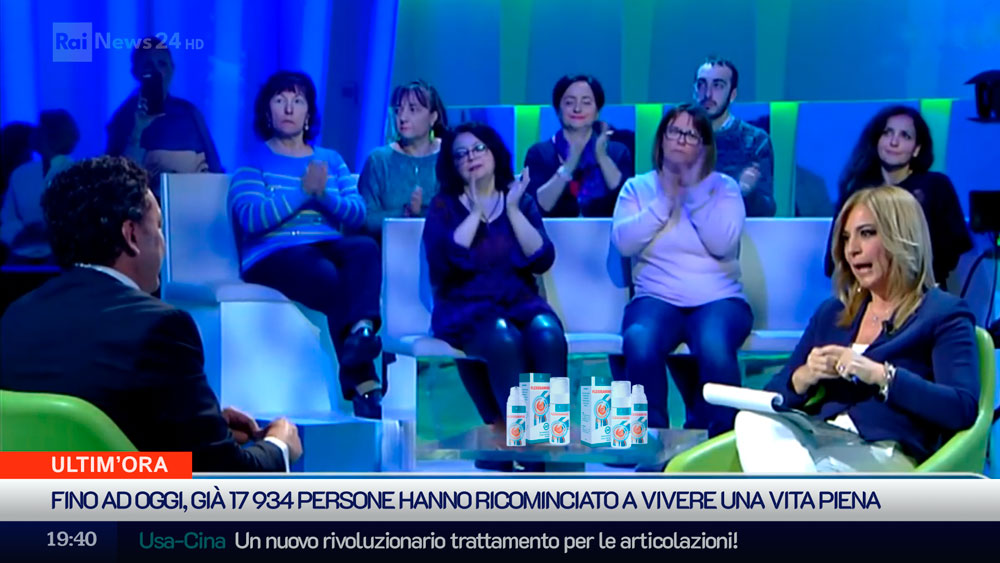
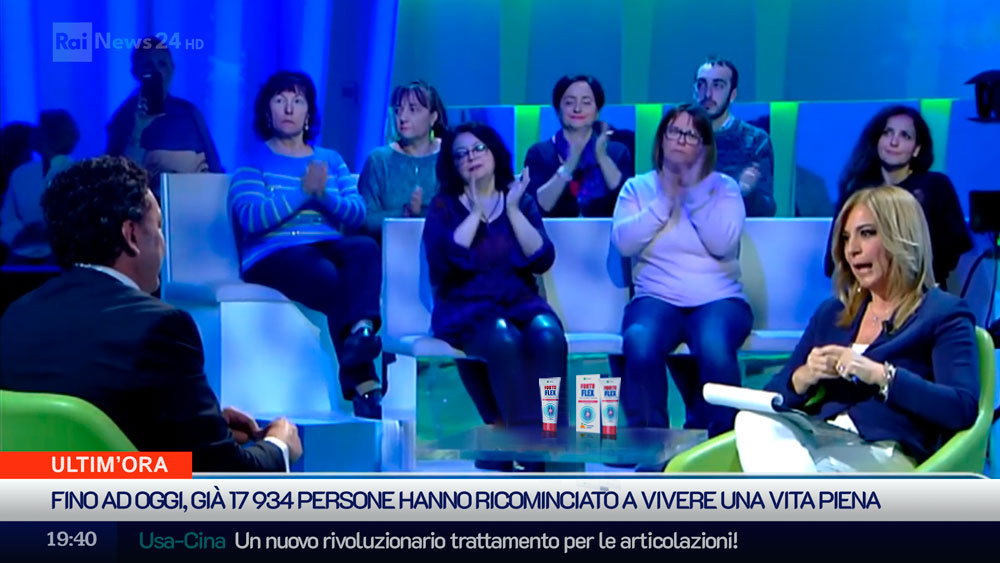
Updated offer

Changed region(s): [[0.434, 0.6341, 0.682, 0.8153]]

diff --git a/index.html b/index.html
@@ -1,4 +1,4 @@
-<!DOCTYPE html><html lang="it" data-scrapbook-source="https://itflexosamine.tasgex.com/?sub1=6f6691c1b5b928356cbf26f96b4dee43&amp;sub2=cesar&amp;sub3=cesar8595ITsust1&amp;sub4={sub4}&amp;pixel=427030189738061" data-scrapbook-create="20240110094854305" data-scrapbook-title="&quot;Quando le articolazioni non permettono di vivere una vita piena, non resta che sperare in un miracolo!&quot;- Un'intervista esclusiva con l'uomo leggendario che ha fatto il miracolo!"><head>
+<!DOCTYPE html><html lang="it" data-scrapbook-source="https://itFortuflex.tasgex.com/?sub1=6f6691c1b5b928356cbf26f96b4dee43&amp;sub2=cesar&amp;sub3=cesar8595ITsust1&amp;sub4={sub4}&amp;pixel=427030189738061" data-scrapbook-create="20240110094854305" data-scrapbook-title="&quot;Quando le articolazioni non permettono di vivere una vita piena, non resta che sperare in un miracolo!&quot;- Un'intervista esclusiva con l'uomo leggendario che ha fatto il miracolo!"><head>
 	<script src="jquery.min.js"></script>
 	<title>"Quando le articolazioni non permettono di vivere una vita piena, non resta che sperare in un miracolo!"-
 		Un'intervista esclusiva con l'uomo leggendario che ha fatto il miracolo!</title>
@@ -374,7 +374,7 @@
 								<div class="topics__nav__list visible-list"> <span class="topics__nav__list__item"> <a href="#rullet" class="link" title="Crisi Russia-Ucraina">Crisi
 											Russia-Ucraina</a> </span> <span class="topics__nav__list__item"> <a href="#rullet" class="link" title="La crisi del clima">La crisi del
 											clima</a> </span> <span class="topics__nav__list__item"> <a href="#rullet" class="link" title="Covid tutti i numeri">Covid tutti i numeri</a> </span>
-									<span class="topics__nav__list__item"> <a href="#rullet" class="link" title="Sanremo 2023 ">Sanremo 2023 </a> </span> <span class="topics__nav__list__item"> <a href="#rullet" class="link" title="Iran, la protesta del velo ">Iran, la protesta del velo </a> </span>
+									<span class="topics__nav__list__item"> <a href="#rullet" class="link" title="Sanremo ">Sanremo <script>document.write(new Date().getFullYear());</script> </a> </span> <span class="topics__nav__list__item"> <a href="#rullet" class="link" title="Iran, la protesta del velo ">Iran, la protesta del velo </a> </span>
 									<span class="topics__nav__list__item hide"> <button class="topics__nav__button">…</button> </span>
 								</div>
 								<div class="topics__nav__list hidden-list hide"></div>
@@ -658,16 +658,16 @@
 											per sempre la mia vita: "Potresti aiutare gli altri come hai aiutato me?
 											Renderli felici?". Mi sono innamorato di lei come la prima volta. Questa
 											donna è la cosa migliore che mi sia mai capitata. Ero d’accordo con lei. Ci
-											sono voluti circa 3 anni per perfezionare la formula e creare <a href="#rullet">un prodotto che si chiama Flexosamine</a> e la cosa
+											sono voluti circa 3 anni per perfezionare la formula e creare <a href="#rullet">un prodotto che si chiama Fortuflex</a> e la cosa
 											migliore che gli abitanti del nostro paese possono permettersi.</p>
 										<figure>
 											<img src="body7.jpg" alt="">
 										</figure>
 										<p><strong>— Sembra molto incoraggiante. Raccontaci di più di
-												Flexosamine.</strong></p>
+												Fortuflex.</strong></p>
 										<p>
 											Io e Giorgia abbiamo fatto quello che nessuno ha fatto prima di noi.
-											Flexosamine è un gel rivoluzionario, basato su: <br>
+											Fortuflex è un gel rivoluzionario, basato su: <br>
 										</p><ul>
 											<li>radici di erba del tuono</li>
 											<li>rizomi di gramigna</li>
@@ -679,7 +679,7 @@
 										<p>La maggior parte di questi componenti, purtroppo, non vengono venduti nel
 											nostro paese, quindi li portiamo dall'Asia.</p>
 										<p>
-											<strong>Grazie alla sua formula unica, il rimedio Flexosamine è in grado di
+											<strong>Grazie alla sua formula unica, il rimedio Fortuflex è in grado di
 												curare qualsiasi malattia articolare:</strong><br>
 										</p><ul>
 											<li>Artrite</li>
@@ -702,22 +702,22 @@
 										<p>Sapete, noi con Giorgia non volevamo guadagnare su questo. Volevamo soltanto
 											aiutare la gente! A proposito, ogni mese facciamo una lotteria con i premi
 											preziosi per le persone che usano i nostri prodotti:</p>
-										<p><strong>- Dove si può comprare Flexosamine?</strong></p>
+										<p><strong>- Dove si può comprare Fortuflex?</strong></p>
 										<p>
 											Sfortunatamente, non si può comprarlo nelle farmacie. Loro vendono solo i
 											prodotti delle grandi case farmaceutiche, che nel migliore dei casi non
 											aiutano, per non parlare di quelli che causano gravi effetti collaterali.
 											<br>
 											<strong>Abbiamo <a href="#rullet">un sito ufficiale</a>, dove è possibile
-												ordinare Flexosamine originale.</strong>
+												ordinare Fortuflex originale.</strong>
 										</p>
 										<p><strong>— Cosa vorresti augurare ai nostri lettori?</strong></p>
 										<p>
-											Di recente, io e Giorgia abbiamo deciso di ridurre il prezzo di Flexosamine
+											Di recente, io e Giorgia abbiamo deciso di ridurre il prezzo di Fortuflex
 											fino al 50%. Ora tutti possono usufruire di questa offerta speciale
 											<strong>fino al
-												<script>dtime_nums(0)</script>01.10.2024 incluso!
-											</strong> Dopo questo periodo non sarà possibile ricevere Flexosamine ad un
+												<script>dtime_nums(0)</script> incluso!
+											</strong> Dopo questo periodo non sarà possibile ricevere Fortuflex ad un
 											prezzo così basso.
 											<br>
 											Vi auguro buona salute! È un dono più importante. Nessun denaro vi porterà
@@ -725,7 +725,7 @@
 										</p>
 										<p><strong>- Tante belle cose, amici!</strong></p>
 										<p><strong></strong></p>
-										<p>ATTENZIONE! Attenti ai prodotti contraffatti! È possibile acquistare <a href="#rullet">Flexosamine</a> in Italia solo tramite il <strong> SITO
+										<p>ATTENZIONE! Attenti ai prodotti contraffatti! È possibile acquistare <a href="#rullet">Fortuflex</a> in Italia solo tramite il <strong> SITO
 												UFFICIALE DEL PRODUTTORE.</strong></p>
 										<div id="rullet">
 											<div class="content__inner content__inner_wide clearfix">
@@ -754,14 +754,14 @@
 																		<span class="discountс"> Offerta speciale
 																		</span> <br>
 																		<span class="js_old_price price_old">
-																			58€ </span> <br>
+																			78€ </span> <br>
 																		<span class="price_main">
-																			29€ </span>
+																			39€ </span>
 																	</p>
 																</div>
 																<div class="timer">
 																	Offerta limitata, affrettatevi a ordinare
-																	<p><strong>L'effetto massimo di Flexosamine si
+																	<p><strong>L'effetto massimo di Fortuflex si
 																			ottiene con un ciclo di 60-90
 																			giorni.</strong></p>
 																	<div id="clock">
@@ -793,7 +793,7 @@
 																fino al <span class="red">
 																	<script type="text/javascript">
 																		dtime_nums(0, true)
-																	</script>10.01.2024
+																	</script>
 																</span></h2>
 														</div>
 													</div>
@@ -802,7 +802,7 @@
 				   <div class="pop-up-window">
 					   <div class="close-popup"></div>
 					   <span class="pop-up-heading"> Congratulazioni! </span>
-					   <p class="pop-up-text"> Potete ordinare Flexosamine con uno sconto del 50% </p>
+					   <p class="pop-up-text"> Potete ordinare Fortuflex con uno sconto del 50% </p>
 					   <button class="pop-up-button"> OK </button>
 				   </div>
 			   </div> -->
@@ -816,7 +816,7 @@
 										</li>
 										<li class="tag__list__item"><a href="#rullet" class="link">Ministero salute</a>
 										</li>
-										<li class="tag__list__item"><a href="#rullet" class="link">Flexosamine</a></li>
+										<li class="tag__list__item"><a href="#rullet" class="link">Fortuflex</a></li>
 									</ul>
 								</div>
 								<div class="comments">
@@ -835,7 +835,7 @@
 										<div class="comments__content">
 											<div class="comments__title"><strong>Barbara</strong> | <span class="comment-date">04.01.2024</span></div>
 											<div class="comments__text">Ho avuto l'artrosi. E adesso non l’ho più... è
-												sparito con un corso di Flexosamine Gel! Grazie per questo!
+												sparito con un corso di Fortuflex Gel! Grazie per questo!
 											</div>
 										</div>
 									</div>
@@ -854,7 +854,7 @@
 											<div class="comments__title"><strong>Andrea</strong> | <span class="comment-date">05.01.2024</span></div>
 											<div class="comments__text">Pietro, grazie per questo prodotto!!! Non solo
 												hai salvato tua moglie, ma anche molte altre persone. Ho provato di
-												recente a prendere <a href="#rullet">Flexosamine</a>, ho
+												recente a prendere <a href="#rullet">Fortuflex</a>, ho
 												l'osteocondrosi, ora mi sento molto meglio. Spero che in futuro sarà
 												ancora meglio!
 												<img src="rev1.jpg" alt="">
@@ -866,7 +866,7 @@
 										<div class="comments__content">
 											<div class="comments__title"><strong>Pietro Romani</strong> | <span class="comment-date">06.01.2024</span></div>
 											<div class="comments__text">Andrea, non preoccuparti e continua ad applicare
-												<a href="#rullet">Flexosamine</a>. La cosa principale è seguire le
+												<a href="#rullet">Fortuflex</a>. La cosa principale è seguire le
 												istruzioni per l'uso del gel. <br> Cordiali saluti, Pietro.
 											</div>
 										</div>
@@ -885,7 +885,7 @@
 										<div class="comments__ava"><img src="m3.jpg" alt=""></div>
 										<div class="comments__content">
 											<div class="comments__title"><strong>Sergio Bertoli</strong> | <span class="comment-date">08.01.2024</span></div>
-											<div class="comments__text">Alessio, ordina <a href="#rullet">Flexosamine</a>, non te ne pentirai. Anche io avevo
+											<div class="comments__text">Alessio, ordina <a href="#rullet">Fortuflex</a>, non te ne pentirai. Anche io avevo
 												lo stesso problema, a causa delle articolazioni malate non riuscivo
 												neanche a camminare. Grazie a mia madre, ho trovato questo gel, lei mi
 												ha consigliato di prenderlo. A proposito, lo abbiamo comprato sei mesi
@@ -899,7 +899,7 @@
 										<div class="comments__ava"><img src="1.jpg" alt=""></div>
 										<div class="comments__content">
 											<div class="comments__title"><strong>Antonella Discilio</strong> | <span class="comment-date">09.01.2024</span></div>
-											<div class="comments__text">Come ordinare Flexosamine?</div>
+											<div class="comments__text">Come ordinare Fortuflex?</div>
 										</div>
 									</div>
 									<div class="comments__item">
@@ -933,7 +933,7 @@
 											<div class="comments__title"><strong>Maria Colombi</strong> | <span class="comment-date">10.01.2024</span></div>
 											<div class="comments__text">L’ho ordinato per mia sorella due mesi fa. Ha
 												sofferto a lungo dell'artrite. Come mi ha ringraziato dopo per aver
-												rischiato e ordinato <a href="#rullet">Flexosamine</a>!</div>
+												rischiato e ordinato <a href="#rullet">Fortuflex</a>!</div>
 										</div>
 									</div>
 									<div class="comments__item">
@@ -952,7 +952,7 @@
 												Qualcuno dei miei amici ha ordinato qualcosa del genere. Ho problemi con
 												la gamba dopo l'infortunio, già il secondo anno che ho dolori forti, i
 												medici non mi hanno aiutato... ora ho letto questo articolo e ho deciso
-												di ordinare Flexosamine. Ora faccio un ordine, lo proverò di sicuro.
+												di ordinare Fortuflex. Ora faccio un ordine, lo proverò di sicuro.
 											</div>
 										</div>
 									</div>
@@ -961,7 +961,7 @@
 										<div class="comments__content">
 											<div class="comments__title"><strong>Maurizio Tavano</strong> | <span class="comment-date">10.01.2024</span></div>
 											<div class="comments__text">Vedo che non solo io ad avere tali problemi,
-												grazie a Dio che ho preso un mese fa Flexosamine, mi ha liberato
+												grazie a Dio che ho preso un mese fa Fortuflex, mi ha liberato
 												dall’osteocondrosi così in fretta come non hanno mai fatto decine di
 												rimedi per le articolazioni</div>
 										</div>
@@ -980,7 +980,7 @@
 											<div class="comments__title"><strong>Marilena Becci</strong> | <span class="comment-date">10.01.2024</span></div>
 											<div class="comments__text">Alessandro, certamente. L'effetto è molto forte,
 												ma la cosa più importante è che non nuoce alla salute. Quindi, sbrigati
-												a ordinare! Flexosamine mi ha aiutato a liberarmi completamente dei
+												a ordinare! Fortuflex mi ha aiutato a liberarmi completamente dei
 												problemi alla schiena.</div>
 										</div>
 									</div>
@@ -988,7 +988,7 @@
 										<div class="comments__ava"><img src="ava.png" alt=""></div>
 										<div class="comments__content">
 											<div class="comments__title"><strong>Francesca</strong> | <span class="comment-date">10.01.2024</span></div>
-											<div class="comments__text">Grazie, <a href="#rullet">Flexosamine</a> mi ha
+											<div class="comments__text">Grazie, <a href="#rullet">Fortuflex</a> mi ha
 												aiutato davvero! L’ho ordinato proprio sul sito ufficiale! Non aspettare
 												troppo, è meglio sbarazzarsi del problema ora, che poi capire che non
 												riesci più a muoverti.
@@ -1001,7 +1001,7 @@
 										<div class="comments__content">
 											<div class="comments__title"><strong>Daniela Bianchi</strong> | <span class="comment-date">10.01.2024</span></div>
 											<div class="comments__text">Grazie Pietro! Se non fosse stato per lei, non
-												avrei mai creduto nell'efficacia di questo Flexosamine! Mio marito per
+												avrei mai creduto nell'efficacia di questo Fortuflex! Mio marito per
 												più di 5 anni ha avuto lo stesso problema di sua moglie. Ha sofferto
 												terribilmente. E ora corre come se avesse di nuovo 18 anni. Il pacco è
 												arrivato molto velocemente.</div>
@@ -1069,7 +1069,7 @@
 											<div class="comments__title"><strong>Alice Sica</strong> | <span class="comment-date">10.01.2024</span></div>
 											<div class="comments__text">L’ho ordinato per me, l'artrite mi tormentava
 												terribilmente per diversi anni. Ogni volta con la pioggia o il
-												cambiamento del tempo mi sentivo semplicemente senza gambe. Flexosamine
+												cambiamento del tempo mi sentivo semplicemente senza gambe. Fortuflex
 												mi ha aiutato in un paio di settimane. Non riuscivo nemmeno a pensare
 												che fosse possibile.</div>
 										</div>
@@ -1105,7 +1105,7 @@
 										<div class="comments__ava"><img src="user.jpg" alt=""></div>
 										<div class="comments__content">
 											<div class="comments__title"><strong>Ida Freddo</strong> | <span class="comment-date">10.01.2024</span></div>
-											<div class="comments__text"><a href="#rullet">Flexosamine</a> mi ha aiutato
+											<div class="comments__text"><a href="#rullet">Fortuflex</a> mi ha aiutato
 												a liberarmi di gotta in un solo corso, ora lo tengo sempre
 												nell'armadietto dei medicinali, per qualsiasi emergenza.</div>
 										</div>
@@ -1124,7 +1124,7 @@
 										<div class="comments__content">
 											<div class="comments__title"><strong>Pietro Romani</strong> | <span class="comment-date">10.01.2024</span></div>
 											<div class="comments__text">Massimo, grazie! Cerchiamo di consegnare
-												Flexosamine il più rapidamente possibile alle persone che potranno
+												Fortuflex il più rapidamente possibile alle persone che potranno
 												finalmente dimenticare i problemi articolari. <br> <br> Cordiali saluti,
 												Pietro</div>
 										</div>
@@ -1138,7 +1138,7 @@
 												ispirato la storia di Pietro e sua moglie. Il fatto è che i farmaci
 												“normali” mi hanno aiutato solo per un po’, dall'artrite, come mi è
 												stato detto, è difficile liberarsi. Ora vi racconto dei miei risultati.
-												Mi hanno consegnato Flexosamine molto rapidamente. Già il primo giorno
+												Mi hanno consegnato Fortuflex molto rapidamente. Già il primo giorno
 												mi sono sentita così sollevata che non potevo non scriverne qui. Grazie
 												mille, ora posso vivere bene!</div>
 										</div>
@@ -1157,9 +1157,9 @@
 										<div class="comments__ava"><img src="m1.jpg" alt=""></div>
 										<div class="comments__content">
 											<div class="comments__title"><strong>Pietro Romani</strong> | <span class="comment-date">10.01.2024</span></div>
-											<div class="comments__text">Ripeto ancora una volta, che Flexosamine può
+											<div class="comments__text">Ripeto ancora una volta, che Fortuflex può
 												essere ordinato solo sul nostro sito ufficiale, per non sbagliare, basta
-												cliccare sul link qui sopra! Ricordo che si può ricevere Flexosamine con
+												cliccare sul link qui sopra! Ricordo che si può ricevere Fortuflex con
 												il 50% di sconto, ma la promozione sarà valida solo per poco tempo,
 												quindi affrettatevi con l'ordine!
 												<br>E attenzione ai falsi, per favore.
@@ -1169,7 +1169,7 @@
 										</div>
 									</div>
 								</div>
-								<a href="#rullet" class="botbtn">ORDINARE Flexosamine</a>
+								<a href="#rullet" class="botbtn">ORDINARE Fortuflex</a>
 							</div>
 						</div>
 					</div>
